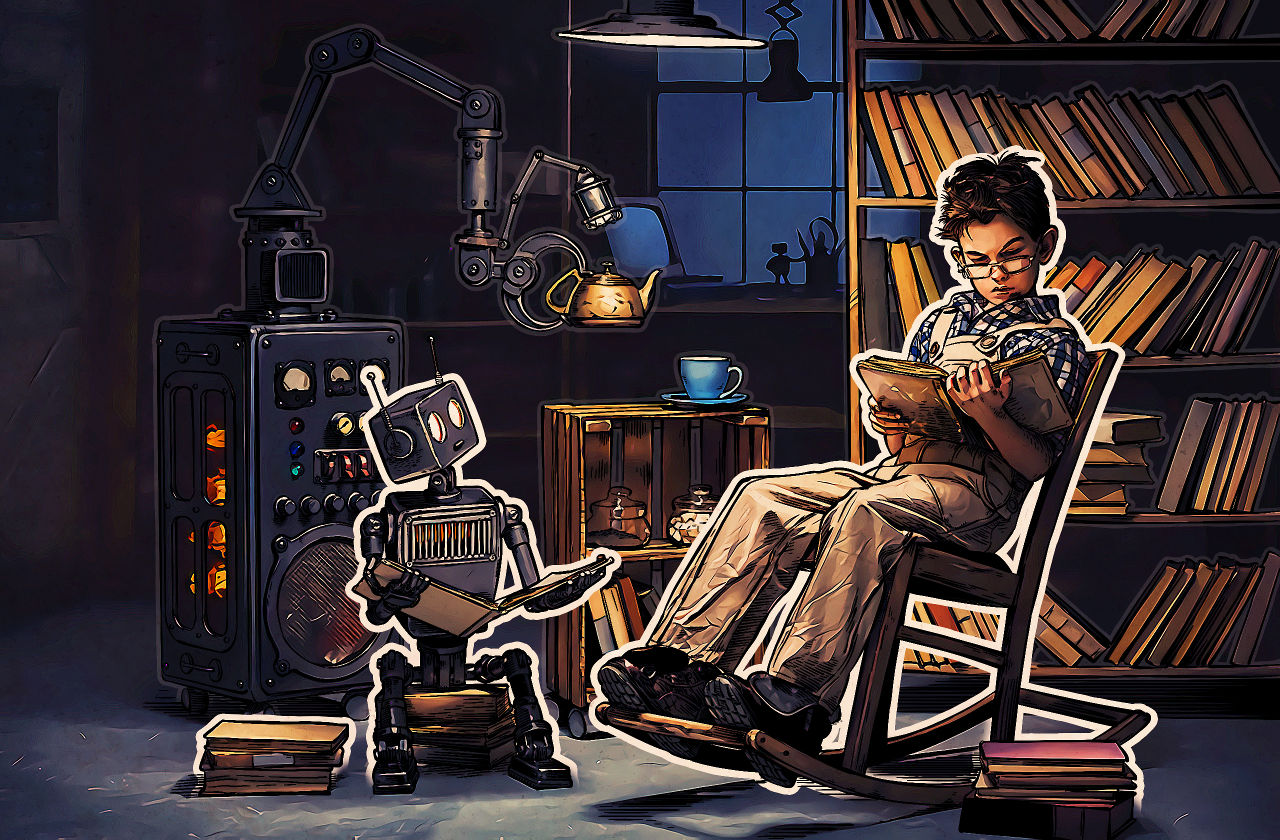
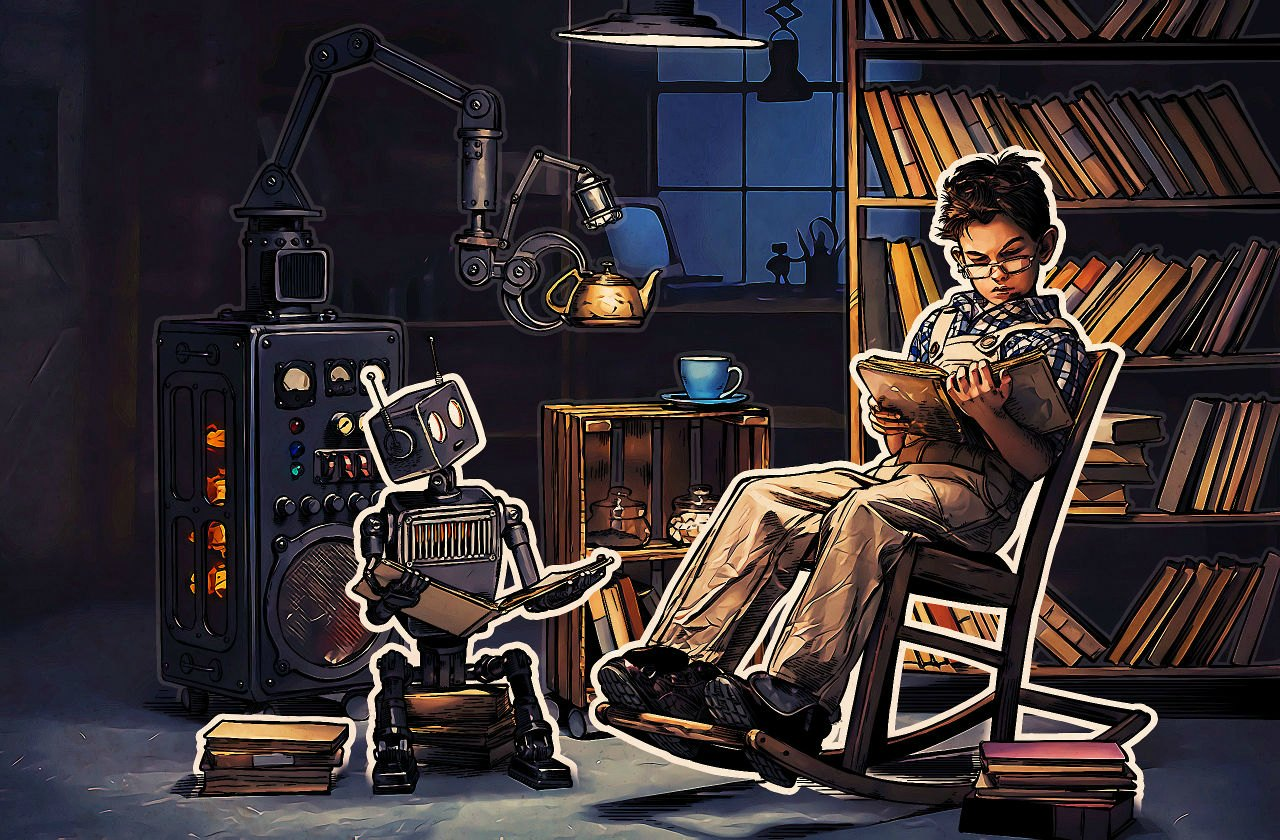
Release 1.0.5

diff --git a/src/templates/webDev.html b/src/templates/webDev.html
@@ -86,7 +86,7 @@
 
                 <!--Card image-->
                 <div class="view hm-zoom z-depth-4">
-                    <img src="img/webDev/node.png" class="img-fluid">
+                    <img src="img/webDev/node.jpg" class="img-fluid">
 
                 </div>
                 <!--/.Card image-->
@@ -111,7 +111,7 @@
 
                 <!--Card image-->
                 <div class="view hm-zoom z-depth-4">
-                    <img src="img/webDev/angular.png" class="img-fluid">
+                    <img src="img/webDev/angular.jpg" class="img-fluid">
 
                 </div>
                 <!--/.Card image-->
@@ -222,7 +222,7 @@
 
                 <!--Card image-->
                 <div class="view hm-zoom">
-                    <img src="img/webDev/android.png" class="img-fluid img-responsive">
+                    <img src="img/webDev/android.jpg" class="img-fluid img-responsive">
 
                 </div>
                 <!--/.Card image-->

diff --git a/css/style.css b/css/style.css
@@ -35,7 +35,7 @@ html, body, .view {
 }
 
 .webdev1.view {
-    background: url(" ../img/webDev/web-dev1.png") no-repeat center center fixed;
+    background: url(" ../img/webDev/web-dev1.jpg") no-repeat center center fixed;
     -webkit-background-size: cover;
     -moz-background-size: cover;
     -o-background-size: cover;
